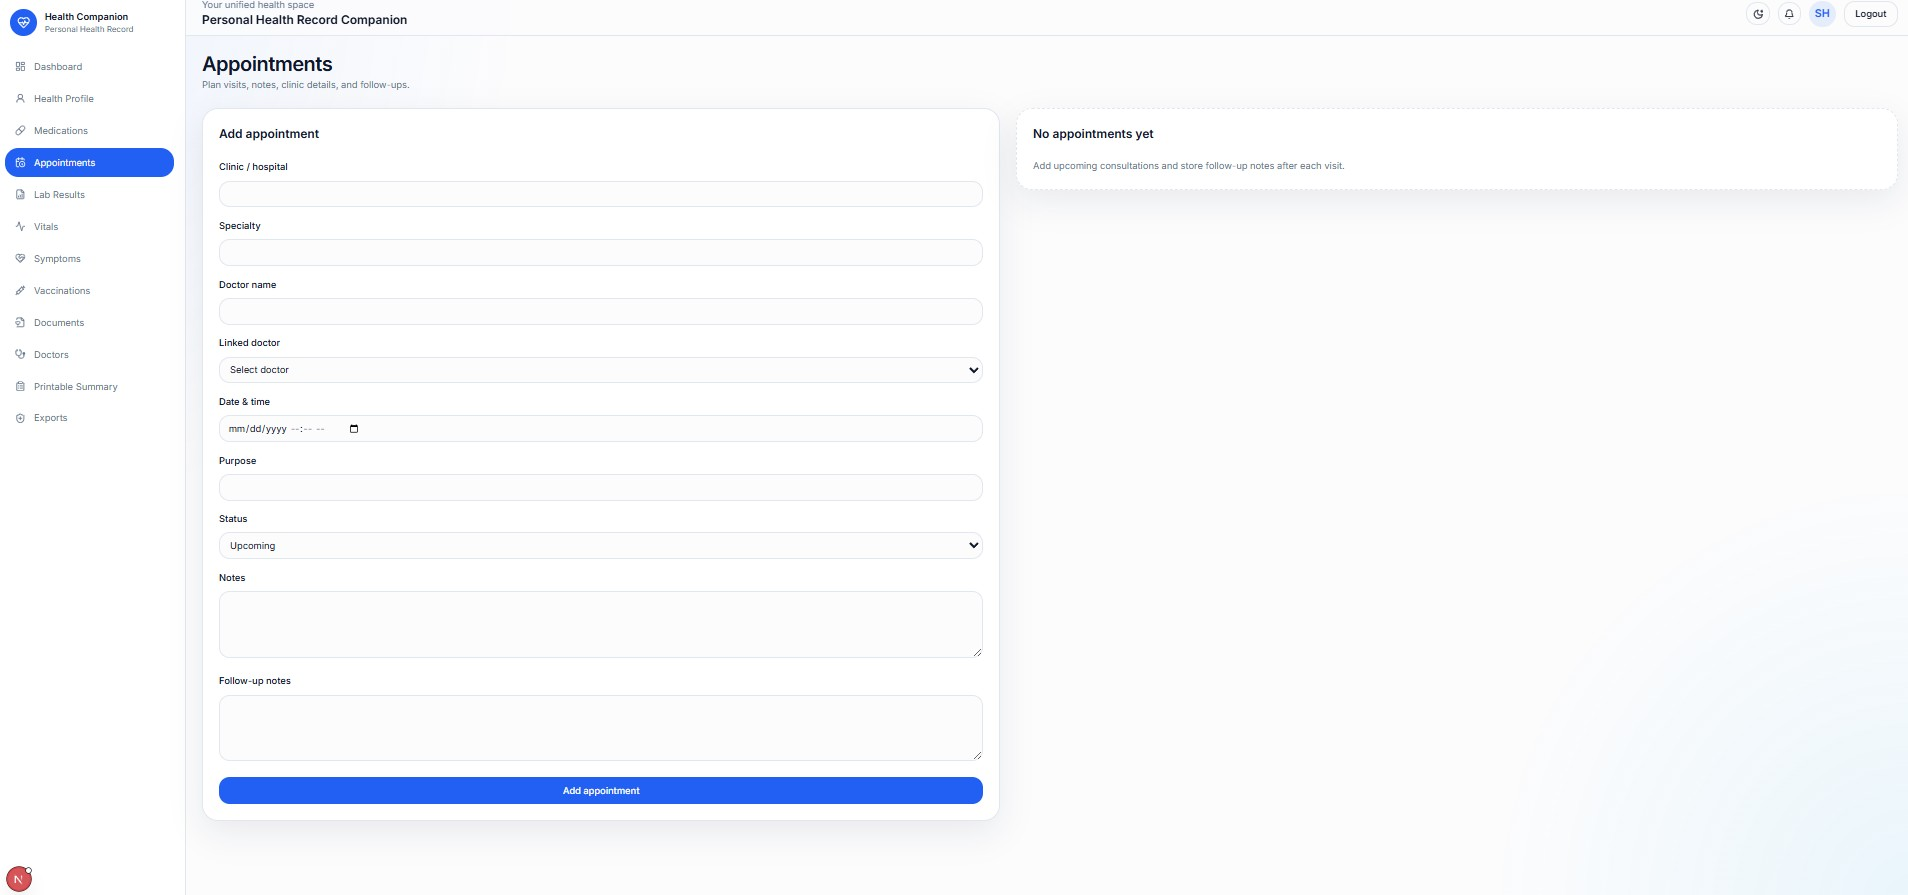
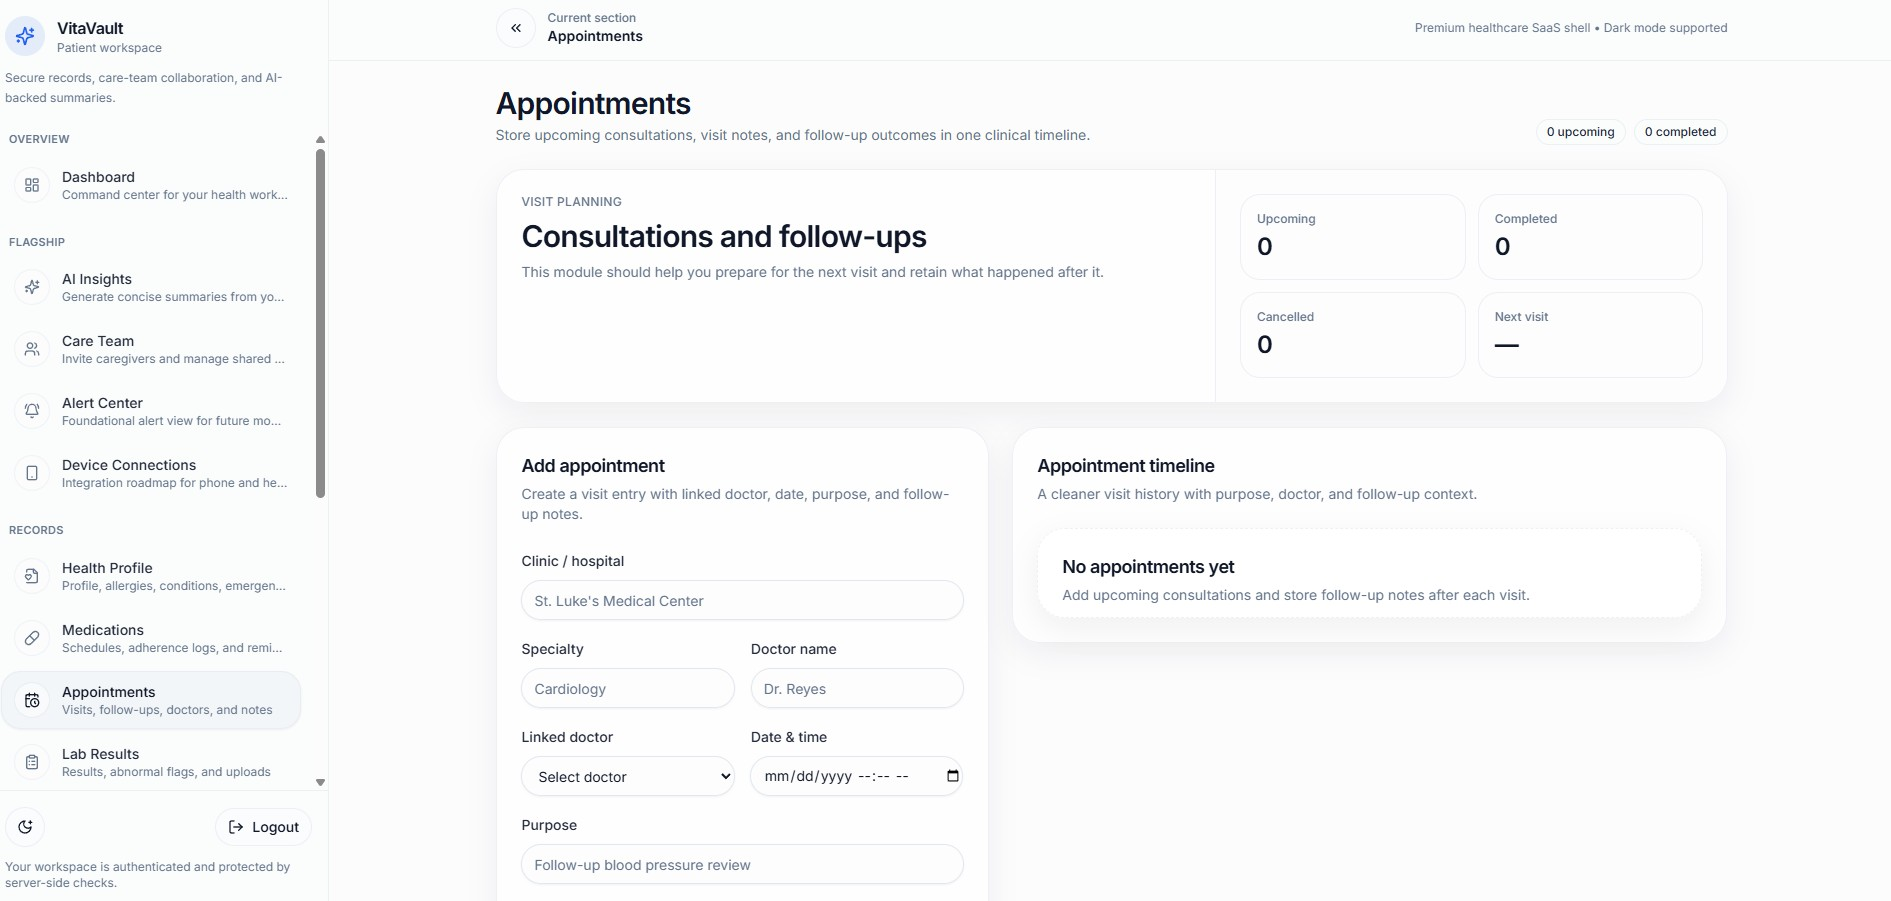
Update README and refreshed VitaVault screenshots

diff --git a/README.md b/README.md
@@ -11,13 +11,13 @@
 ![Recharts](https://img.shields.io/badge/Recharts-2.15-8884d8?style=for-the-badge)
 ![License](https://img.shields.io/badge/License-MIT-green?style=for-the-badge)
 
-A flagship personal health record companion for tracking medications, appointments, lab results, vitals, symptoms, documents, and health insights in one secure dashboard.
+A flagship personal health record and care-collaboration platform for tracking medications, appointments, lab results, vitals, symptoms, documents, AI insights, and shared care access in one secure dashboard.
 
 ---
 
 ## Overview
 
-VitaVault is a premium, portfolio-worthy health management web app designed to help users keep their personal health records organized in one place. It is built as a modern startup-style MVP with polished UI, secure authentication, clean data architecture, and analytics-driven health insights.
+VitaVault is a premium, portfolio-worthy health management web app designed to help users keep their personal health records organized in one place while preparing the product for real collaborative healthcare workflows. It is built as a modern startup-style MVP with polished UI, secure authentication, clean data architecture, AI-assisted insights, mobile-ready backend foundations, and investor-ready product direction.
 
 Users can securely manage:
 
@@ -34,14 +34,32 @@ Users can securely manage:
 - Medical documents
 - CSV exports
 - Printable health summary
+- AI-generated health insights
+- Care-team invites and shared access
+- Alert center foundation
+- Device connection roadmap
+- Android-ready mobile ingestion backend foundation
 
 ---
 
 ## What's New
 
+- Redesigns the dashboard into a more premium command-center experience
+- Adds a polished sidebar/app shell with grouped navigation and collapse support
+- Elevates AI Insights and Care Team as flagship product features
+- Improves care-team invite UX with clearer sender and recipient flows
+- Adds Alert Center foundation for future threshold/trend-based monitoring
+- Adds Device Connections roadmap page for sponsor/client demos
+- Redesigns Health Profile, Medications, Appointments, Labs, Vitals, Symptoms, Documents, Vaccinations, Doctors, Summary, and Exports pages into a more premium SaaS-style layout
 - Prevents duplicate same-day medication logs for the same medication schedule
 - Adds a **Skipped** medication action alongside **Taken** and **Missed**
 - Adds medication adherence summary cards on the Medications page
+- Adds mobile backend foundation for Android sync:
+  - mobile token auth
+  - device connection tracking
+  - sync job audit trail
+  - device reading ingestion endpoints
+  - mirrored supported readings into `VitalRecord`
 - Adds GitHub workflow polish with CI typecheck support and contribution templates
 - Keeps the app startup-style, premium, and portfolio-ready while improving real product behavior
 
@@ -55,6 +73,11 @@ Users can securely manage:
 | **Dashboard**<br><img src=".mkdir/Dashboard.jpg" alt="Dashboard" width="100%"> | **Health Profile**<br><img src=".mkdir/Health-Profile.jpg" alt="Health Profile" width="100%"> |
 | **Medications**<br><img src=".mkdir/Medications.jpg" alt="Medications" width="100%"> | **Appointments**<br><img src=".mkdir/Appointments.jpg" alt="Appointments" width="100%"> |
 | **Lab Results**<br><img src=".mkdir/Lab-Results.jpg" alt="Lab Results" width="100%"> | **Exports Page**<br><img src=".mkdir/Exports-Page.jpg" alt="Exports Page" width="100%"> |
+| **AI Insights**<br><img src=".mkdir/AI-Insights.jpg" alt="AI Insights" width="100%"> | **Care Team**<br><img src=".mkdir/Care-Team.jpg" alt="Care Team" width="100%"> |
+| **Device Connections**<br><img src=".mkdir/Device-Connections.jpg" alt="Device Connections" width="100%"> | **Alert Center**<br><img src=".mkdir/Alert-Center.jpg" alt="Alert Center" width="100%"> |
+| **Vaccinations**<br><img src=".mkdir/Vaccinations.jpg" alt="Vaccinations" width="100%"> | **Doctors**<br><img src=".mkdir/Doctors.jpg" alt="Doctors" width="100%"> |
+| **Summary**<br><img src=".mkdir/Summary.jpg" alt="Summary" width="100%"> | **Vitals**<br><img src=".mkdir/Vitals.jpg" alt="Vitals" width="100%"> |
+| **Symptoms**<br><img src=".mkdir/Symptoms.jpg" alt="Symptoms" width="100%"> | **Documents**<br><img src=".mkdir/Documents.jpg" alt="Documents" width="100%"> |
 
 ---
 
@@ -67,17 +90,19 @@ Users can securely manage:
 - Protected dashboard routes
 - Secure password hashing with bcrypt
 - Demo user seed
+- Separate mobile token authentication foundation for Android sync
 
 ### Dashboard
-- Welcome panel
+- Premium command-center layout
 - Profile completion card
 - Next medication reminder
 - Upcoming appointments
 - Latest lab results
 - Recent symptoms
 - Health alerts
-- Quick action cards
+- Quick module cards
 - Trend charts for blood pressure, weight, blood sugar, and medicine adherence
+- Stronger flagship placement for AI and care-team features
 
 ### Health Records
 - Health profile management
@@ -93,12 +118,33 @@ Users can securely manage:
 - Medical document uploads
 - Doctor and clinic directory
 - Reminder visibility from health data
+- Printable summary experience
+- CSV export support
+
+### Collaboration & AI
+- AI insight generation from stored records
+- AI-first product positioning with better empty/error states
+- Care-team invite creation and acceptance flow
+- Shared patient workspace foundation
+- Access-role and permission-based collaboration
+- Alert Center foundation for future escalation workflows
+
+### Mobile & Device Readiness
+- Device Connections roadmap page
+- Android-ready mobile backend ingestion foundation
+- Device connection tracking
+- Sync job history and auditability
+- Reading source modeling for manual and future connected health sources
+- Mirroring supported synced readings into `VitalRecord`
+- Designed for Health Connect as the first real mobile ingestion path
 
 ### Productivity
 - Search and filter support
 - CSV export routes
 - Printable summary page
 - Responsive premium layout for desktop and mobile
+- Sidebar collapse support
+- Premium animated page transitions and staggered UI motion
 
 ### Security
 - Route protection via middleware
@@ -108,6 +154,7 @@ Users can securely manage:
 - Environment-based secrets
 - File upload validation
 - Cross-user access prevention on data routes and exports
+- Mobile bearer-token auth foundation for app sync
 
 ### Developer Experience
 - TypeScript typecheck script
@@ -115,6 +162,7 @@ Users can securely manage:
 - GitHub issue templates
 - GitHub pull request template
 - Prisma-powered data modeling
+- Modular UI/page architecture for easier scaling
 
 ---
 
@@ -130,6 +178,7 @@ Users can securely manage:
 - **Zod**
 - **Recharts**
 - **lucide-react**
+- **framer-motion**
 
 ---
 
@@ -143,12 +192,19 @@ personal-health-record-companion/
 │   └── pull_request_template.md
 ├── app/
 │   ├── (auth)/
+│   ├── ai-insights/
+│   ├── alerts/
+│   ├── api/
+│   │   └── mobile/
 │   ├── appointments/
+│   ├── care-team/
 │   ├── dashboard/
+│   ├── device-connections/
 │   ├── doctors/
 │   ├── documents/
 │   ├── exports/
 │   ├── health-profile/
+│   ├── invite/
 │   ├── labs/
 │   ├── medications/
 │   ├── signup/
@@ -183,6 +239,10 @@ personal-health-record-companion/
 - `/login`
 - `/signup`
 - `/dashboard`
+- `/ai-insights`
+- `/care-team`
+- `/alerts`
+- `/device-connections`
 - `/health-profile`
 - `/medications`
 - `/appointments`
@@ -223,6 +283,8 @@ DATABASE_URL="postgresql://postgres:postgres@localhost:5432/phr_companion?schema
 AUTH_SECRET="your-long-random-secret"
 AUTH_TRUST_HOST="true"
 NEXTAUTH_URL="http://localhost:3000"
+OPENAI_API_KEY="your-openai-key"
+OPENAI_MODEL="gpt-4.1-mini"
 ```
 
 ### 3. Push the Prisma schema
@@ -283,6 +345,14 @@ The project includes the following main Prisma models:
 - VaccinationRecord
 - MedicalDocument
 - Reminder
+- CareAccess
+- CareInvite
+- AccessAuditLog
+- AiInsight
+- DeviceConnection
+- DeviceReading
+- MobileSessionToken
+- SyncJob
 
 ---
 
@@ -290,8 +360,9 @@ The project includes the following main Prisma models:
 
 - Built like a startup MVP, not just a CRUD school project
 - Covers multiple real healthcare record workflows in one product
+- Adds collaborative care and AI layers beyond a basic personal tracker
 - Blends premium UI with practical data handling
-- Includes analytics, adherence tracking, export flows, and printable summary support
+- Includes analytics, adherence tracking, export flows, printable summary support, and mobile-ready device ingestion foundations
 - Strong candidate for a pinned GitHub project and portfolio centerpiece
 
 ---
@@ -301,13 +372,16 @@ The project includes the following main Prisma models:
 - Edit and delete flows across all entities
 - Recurring reminder engine
 - Email and push notifications
-- Shared caregiver access
+- Full caregiver notification workflow
+- Android Health Connect production sync
+- Apple Health / wearable integrations
 - Better medical document categorization
-- Audit trail and activity log
+- Audit trail and activity log expansion
 - Cloud object storage for uploads
 - OCR support for prescriptions and lab reports
-- AI-assisted health summaries
+- Richer AI-assisted health summaries
 - PWA offline support
+- FHIR / interoperability direction for future clinical integrations
 
 ---
 
